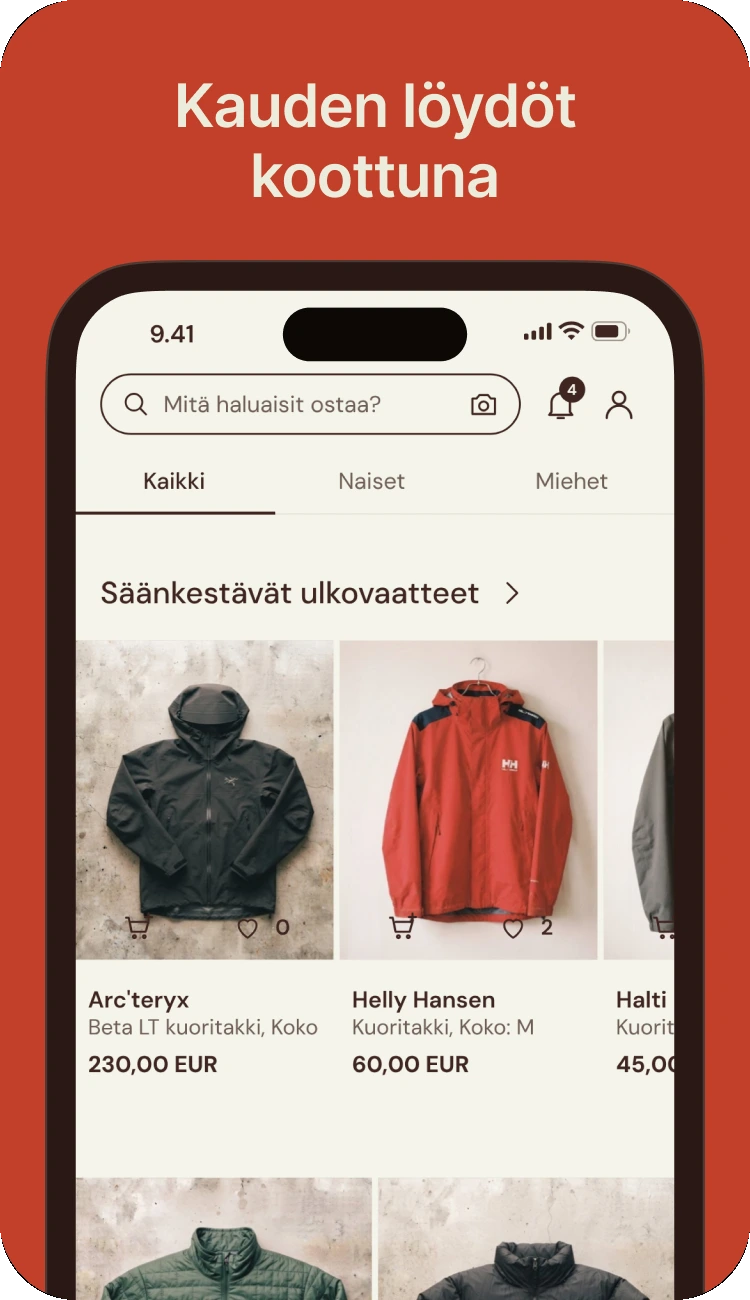
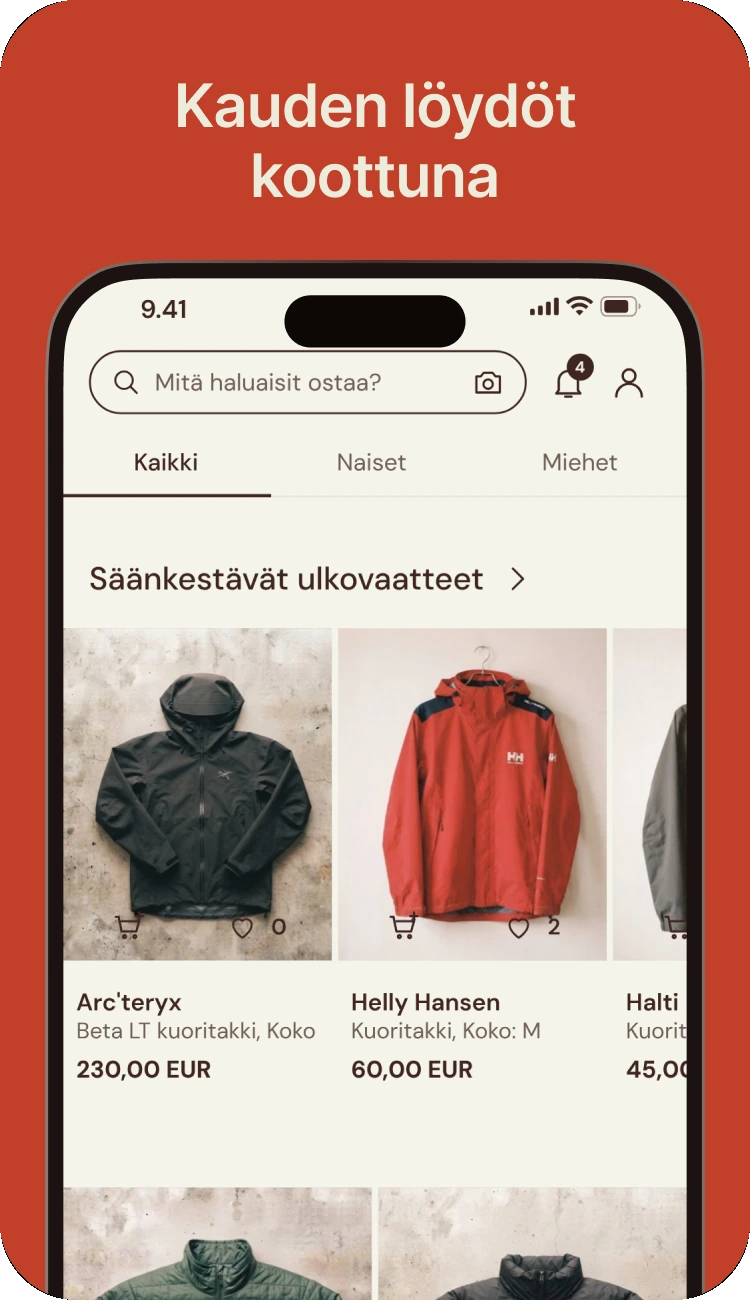
Puhelinmockupit: ohuemmat realistiset reunat (mobiili, desktop, Figma)
Claude-Session: https://claude.ai/code/session_01GFdz22wxCZYfy3LenkEfZr

diff --git a/resella.html b/resella.html
@@ -338,11 +338,11 @@ section[id]{scroll-margin-top:72px}
 .ap-grid.on .ap-card:nth-child(2){transition-delay:.08s}.ap-grid.on .ap-card:nth-child(3){transition-delay:.16s}
 .ap-card h3{position:relative;z-index:2;font-family:var(--fd);font-weight:600;font-size:clamp(18px,1.75vw,25px);letter-spacing:-.015em;line-height:1.18;margin:0;padding:clamp(26px,3vw,44px) clamp(22px,2.6vw,40px) 0;max-width:20ch}
 .ap-card.bot h3,.ap-card.photo h3{margin-top:auto;padding:0 clamp(22px,2.6vw,40px) clamp(26px,3vw,44px)}
-.ap-phone{position:absolute;left:50%;width:78%;transform:translateX(-50%);background:#2A1814;border-radius:15.6%/7.6%;padding:4.65%;box-shadow:inset 0 0 0 1.5px rgba(107,84,77,.55);z-index:1}
+.ap-phone{position:absolute;left:50%;width:78%;transform:translateX(-50%);background:#1C1310;border-radius:14.4%/7%;padding:2.8%;box-shadow:inset 0 0 0 1.5px rgba(140,120,112,.6);z-index:1}
 .ap-card.top .ap-phone{top:26%}
 .ap-card.bot .ap-phone{bottom:27%}
-.ap-phone img{display:block;width:100%;height:auto;border-radius:12.1%/5.6%}
-.ap-isl{position:absolute;top:3.5%;left:50%;width:27.9%;aspect-ratio:120/35;transform:translateX(-50%);background:#0D0806;border-radius:999px;z-index:2}
+.ap-phone img{display:block;width:100%;height:auto;border-radius:12.3%/5.8%}
+.ap-isl{position:absolute;top:2.6%;left:50%;width:27.4%;aspect-ratio:120/35;transform:translateX(-50%);background:#0D0806;border-radius:999px;z-index:2}
 .ap-rc{position:absolute;left:9%;right:9%;top:42%;background:var(--bg);border-radius:20px;padding:clamp(16px,1.6vw,24px);display:flex;flex-direction:column;gap:clamp(8px,.8vw,12px);font-size:clamp(13px,1.05vw,15px);text-align:left}
 .ap-rc-top,.ap-rc-row,.ap-rc-tot{display:flex;justify-content:space-between;gap:12px}
 .ap-rc-top{font-size:clamp(15px,1.25vw,18px);padding-bottom:clamp(8px,.8vw,12px);border-bottom:1px solid var(--line)}.ap-rc-top span{color:var(--ink-muted)}
@@ -1184,13 +1184,13 @@ section.fd{background:var(--blue)}
     <button role="tab" aria-selected="true" data-tab="0">Myyjä</button><button role="tab" aria-selected="false" data-tab="1">Ostaja</button><button role="tab" aria-selected="false" data-tab="2">Kaikki hyötyvät</button>
   </div>
   <div class="m-car m-car--app on" data-car data-set="0">
-    <img src="assets/m/a1_1.webp?v=7" alt="Varaa paikka puhelimella" loading="lazy"><img src="assets/m/a1_2.webp?v=7" alt="Kuvaa tuote, saat hintaehdotuksen" loading="lazy"><img src="assets/m/a1_3.webp?v=7" alt="Seuraa myyntiä ja tilityksiä" loading="lazy"><img src="assets/m/a1_4.webp?v=7" alt="Oma profiili ja varaukset" loading="lazy"><img src="assets/m/a1_5.webp?v=7" alt="Saldo näkyy heti" loading="lazy"><img src="assets/m/a1_6.webp?v=7" alt="Myy lähikirppiksellä" loading="lazy">
+    <img src="assets/m/a1_1.webp?v=8" alt="Varaa paikka puhelimella" loading="lazy"><img src="assets/m/a1_2.webp?v=8" alt="Kuvaa tuote, saat hintaehdotuksen" loading="lazy"><img src="assets/m/a1_3.webp?v=8" alt="Seuraa myyntiä ja tilityksiä" loading="lazy"><img src="assets/m/a1_4.webp?v=8" alt="Oma profiili ja varaukset" loading="lazy"><img src="assets/m/a1_5.webp?v=8" alt="Saldo näkyy heti" loading="lazy"><img src="assets/m/a1_6.webp?v=8" alt="Myy lähikirppiksellä" loading="lazy">
   </div>
   <div class="m-car m-car--app" data-car data-set="1" hidden>
-    <img src="assets/m/a2_1.webp?v=7" alt="Uudet löydöt joka päivä" loading="lazy"><img src="assets/m/a2_2.webp?v=7" alt="Hae läheltä ja kauempaa" loading="lazy"><img src="assets/m/a2_3.webp?v=7" alt="Varaa ja nouda kirppikseltä" loading="lazy"><img src="assets/m/a2_4.webp?v=7" alt="Hae kuvalla" loading="lazy"><img src="assets/m/a2_5.webp?v=7" alt="Asuideat kirppislöydöistä" loading="lazy"><img src="assets/m/a2_6.webp?v=7" alt="Kauden löydöt koottuna" loading="lazy"><img src="assets/m/a2_7.webp?v=7" alt="Ilmoitus uusista osumista" loading="lazy">
+    <img src="assets/m/a2_1.webp?v=8" alt="Uudet löydöt joka päivä" loading="lazy"><img src="assets/m/a2_2.webp?v=8" alt="Hae läheltä ja kauempaa" loading="lazy"><img src="assets/m/a2_3.webp?v=8" alt="Varaa ja nouda kirppikseltä" loading="lazy"><img src="assets/m/a2_4.webp?v=8" alt="Hae kuvalla" loading="lazy"><img src="assets/m/a2_5.webp?v=8" alt="Asuideat kirppislöydöistä" loading="lazy"><img src="assets/m/a2_6.webp?v=8" alt="Kauden löydöt koottuna" loading="lazy"><img src="assets/m/a2_7.webp?v=8" alt="Ilmoitus uusista osumista" loading="lazy">
   </div>
   <div class="m-car m-car--app" data-car data-set="2" hidden>
-    <img src="assets/m/a3_1.webp?v=7" alt="Myyjä saa rahat tilille" loading="lazy"><img src="assets/m/a3_2.webp?v=7" alt="Ostaja löytää uniikin tuotteen" loading="lazy"><img src="assets/m/a3_3.webp?v=7" alt="Kirppis saa provision" loading="lazy"><img src="assets/m/a3_4.webp?v=7" alt="Hae, varaa ja nouda" loading="lazy"><img src="assets/m/a3_5.webp?v=7" alt="Kaikki hyllyt yhdessä" loading="lazy"><img src="assets/m/a3_6.webp?v=7" alt="Suosikit talteen" loading="lazy">
+    <img src="assets/m/a3_1.webp?v=8" alt="Myyjä saa rahat tilille" loading="lazy"><img src="assets/m/a3_2.webp?v=8" alt="Ostaja löytää uniikin tuotteen" loading="lazy"><img src="assets/m/a3_3.webp?v=8" alt="Kirppis saa provision" loading="lazy"><img src="assets/m/a3_4.webp?v=8" alt="Hae, varaa ja nouda" loading="lazy"><img src="assets/m/a3_5.webp?v=8" alt="Kaikki hyllyt yhdessä" loading="lazy"><img src="assets/m/a3_6.webp?v=8" alt="Suosikit talteen" loading="lazy">
   </div>
 </section>
 
